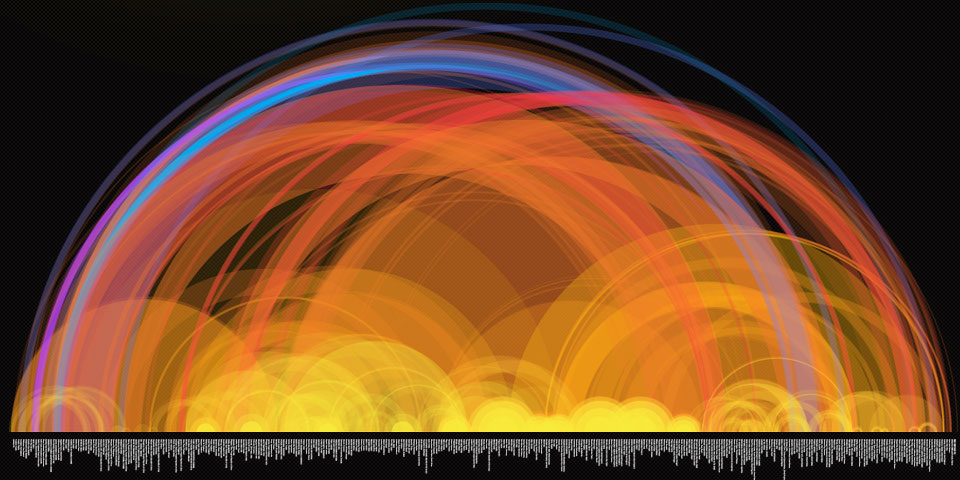
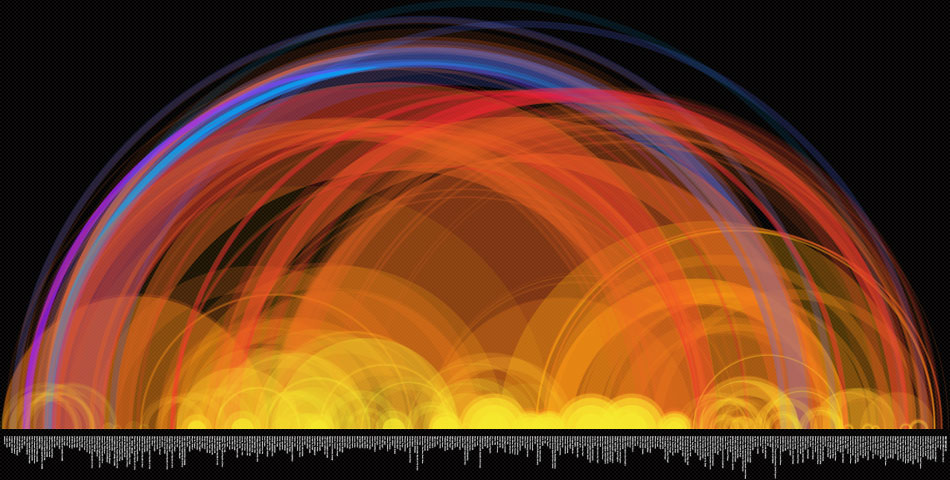
Fixed map image which needed transparency in the dashboard

diff --git a/media/css/screen.css b/media/css/screen.css
@@ -345,6 +345,10 @@ ul#main-menu {
 	margin:40px 0;
 }
 
+#dashboard #globalmap {
+    background:url('../img/map.png') no-repeat 0 0;
+}
+
 #global-spark a.button {
     float:right;
     min-width:256px;
